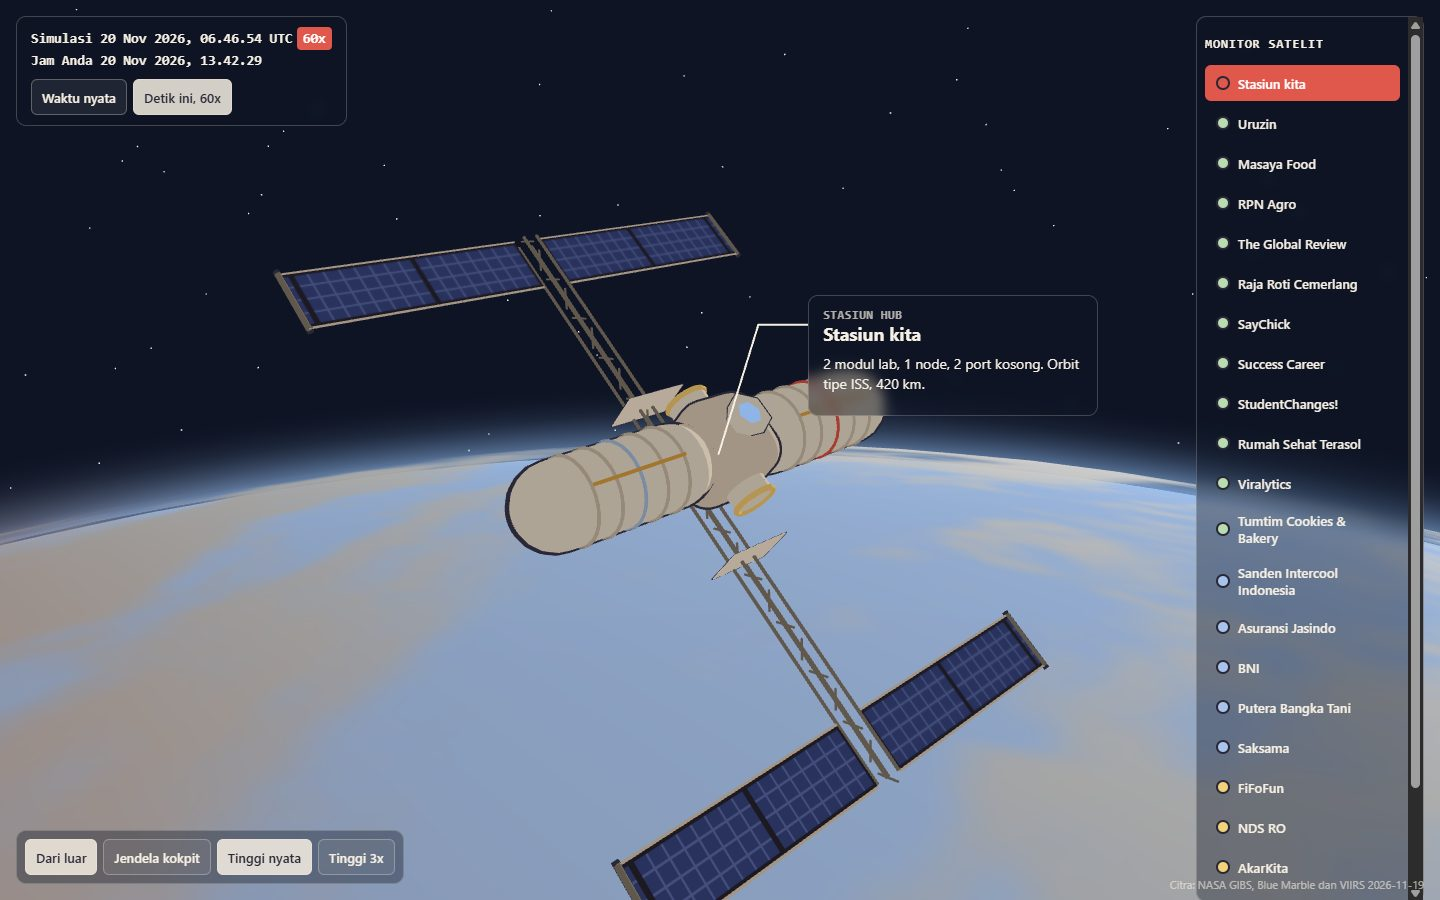
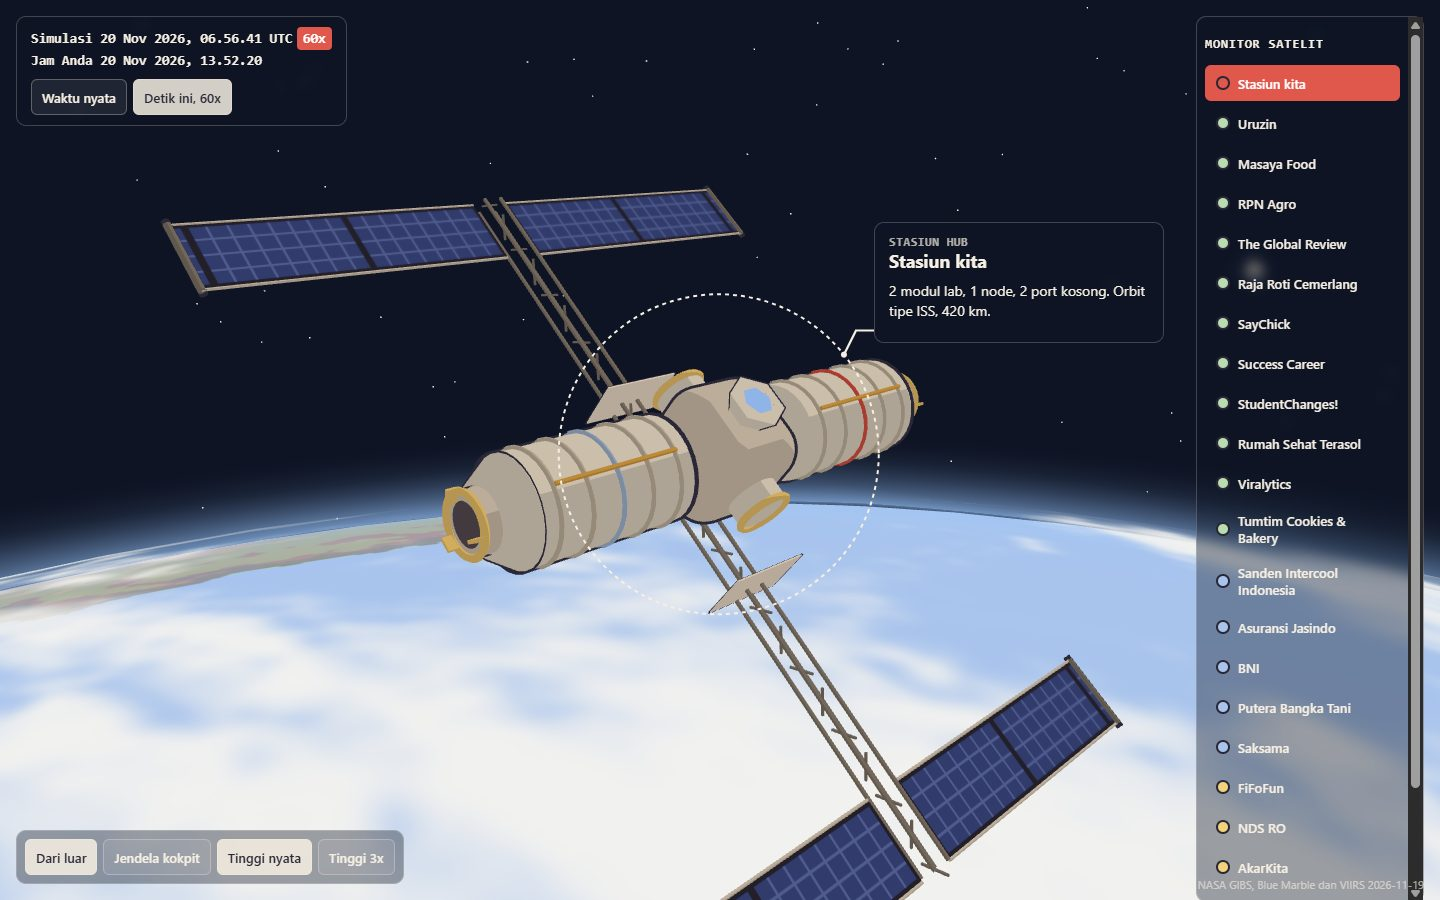
orbit: HUD menempel lewat cincin, port sandar modul, tanpa glitch titik
Titik penanda berukuran tetap disembunyikan saat kamera dekat karena
menembus badan satelit; pita dan antena digeser keluar kulit tinta.
HUD diberi cincin putus-putus seukuran benda dan garis dari tepi cincin,
panel di sisi yang lega. Modul stasiun kini silinder dengan ujung kerucut
dan port sandar. Daftar situs belajar juga tersedia sebagai HTML.

diff --git a/desain/cerita-v5/riset-situs-belajar-interaktif.html b/desain/cerita-v5/riset-situs-belajar-interaktif.html
@@ -1,0 +1,64 @@
+<!doctype html><html lang="id"><head><meta charset="utf-8"><meta name="viewport" content="width=device-width,initial-scale=1"><title>Situs belajar interaktif</title><style>
+:root{color-scheme:light dark;--bg:#f6efe3;--fg:#2a2836;--garis:#d9d2c6;--a:#b8322a}@media (prefers-color-scheme:dark){:root{--bg:#14182a;--fg:#f6efe3;--garis:#2f3550;--a:#f08a7e}}
+body{margin:0;background:var(--bg);color:var(--fg);font:15px/1.55 system-ui,sans-serif}main{max-width:1100px;margin:0 auto;padding:24px 16px 60px}
+h1{font-size:24px}h2{margin-top:32px;font-size:19px}table{width:100%;border-collapse:collapse;font-size:14px}th,td{border-bottom:1px solid var(--garis);padding:8px 6px;text-align:left;vertical-align:top}th{position:sticky;top:0;background:var(--bg)}a{color:var(--a);font-weight:600}
+@media(max-width:700px){table{display:block;overflow-x:auto}}</style></head><body><main><h1>Situs belajar interaktif sejenis designed-to-scale</h1>
+<p>20 Nov 2026. Permintaan Farrez: daftar situs seperti <a href="https://designed-to-scale.vercel.app/#/request-lifecycle/5" target="_blank" rel="noopener noreferrer">designed-to-scale</a></p>
+<p>untuk cloud (AWS dan lainnya) dan keamanan siber. Dipakai juga sebagai rujukan isi layar kokpit dan</p>
+<p>tablet prosedur, supaya pengunjung merasa sedang berada di dalam simulasi (game di dalam game).</p>
+<p><b>V</b> = dibuka hari ini, <b>I</b> = hanya dari cuplikan atau listing, <b>U</b> = gagal dibuka.</p>
+<p>Jenis: <b>visual</b> (penjelasan visual interaktif), <b>lab</b> (lab praktik), <b>kursus</b>.</p>
+<h2>Cloud</h2>
+<table><thead><tr><th>Situs</th><th>Isi</th><th>Jenis</th><th>Biaya</th><th>Mirip</th><th>Label</th></tr></thead><tbody>
+<tr><td><a href="https://kubernetes-explained.vercel.app/" target="_blank" rel="noopener noreferrer">Interactive Kubernetes, explained</a></td><td>pod, scheduler, Service, kube-proxy, jalur request lewat ingress; tombol play, pause, step</td><td>visual</td><td>tidak disebut</td><td>sangat</td><td>V</td></tr>
+<tr><td><a href="https://toolkit-1m9.pages.dev/how-it-works" target="_blank" rel="noopener noreferrer">Toolkit, Guides</a></td><td>38 panduan: VPC, jaringan Kubernetes, autoscaling, API gateway, NAT, BGP</td><td>visual</td><td>tidak disebut</td><td>sangat</td><td>V</td></tr>
+<tr><td><a href="https://krrish20.github.io/Cloud-DevOps-Explorer/" target="_blank" rel="noopener noreferrer">Cloud DevOps Explorer</a></td><td>30+ konsep dari cloud sampai Kubernetes, Terraform, CI/CD; diagram animasi dan kuis</td><td>visual</td><td>gratis</td><td>tinggi</td><td>V</td></tr>
+<tr><td><a href="https://learnkube.com/kubernetes-network-packets" target="_blank" rel="noopener noreferrer">LearnKube: jalur paket di Kubernetes</a></td><td>paket dari container sampai Service, diagram bertahap</td><td>visual</td><td>gratis</td><td>tinggi</td><td>V</td></tr>
+<tr><td><a href="https://cidr.xyz" target="_blank" rel="noopener noreferrer">CIDR.xyz</a></td><td>kalkulator subnet dengan peta bit</td><td>visual (alat)</td><td>gratis</td><td>sedang</td><td>V</td></tr>
+<tr><td><a href="https://messwithdns.net" target="_blank" rel="noopener noreferrer">Mess With DNS</a></td><td>subdomain sungguhan, log query langsung</td><td>lab</td><td>perlu login</td><td>sedang</td><td>V</td></tr>
+<tr><td><a href="https://labs.iximiuz.com" target="_blank" rel="noopener noreferrer">iximiuz Labs</a></td><td>playground Kubernetes, Docker, Linux, challenge</td><td>lab</td><td>akun gratis, premium</td><td>rendah</td><td>V</td></tr>
+<tr><td><a href="https://killercoda.com" target="_blank" rel="noopener noreferrer">Killercoda</a></td><td>skenario Kubernetes, Linux, Helm, persiapan CKA</td><td>lab</td><td>ada tier berbayar</td><td>rendah</td><td>V</td></tr>
+<tr><td><a href="https://sadservers.com" target="_blank" rel="noopener noreferrer">SadServers</a></td><td>troubleshooting server rusak</td><td>lab</td><td>bisa tanpa daftar</td><td>rendah</td><td>V</td></tr>
+<tr><td><a href="https://aws.amazon.com/training/digital/aws-cloud-quest/" target="_blank" rel="noopener noreferrer">AWS Cloud Quest dan Skill Builder</a></td><td>game peran dan lab console AWS</td><td>lab</td><td>akun gratis terbatas</td><td>rendah</td><td>V</td></tr>
+<tr><td><a href="https://www.skills.google/" target="_blank" rel="noopener noreferrer">Google Skills</a></td><td>lab di console Google Cloud (dulu Cloud Skills Boost)</td><td>lab</td><td>perlu akun</td><td>rendah</td><td>V</td></tr>
+<tr><td><a href="https://learn.microsoft.com/en-us/training/" target="_blank" rel="noopener noreferrer">Microsoft Learn</a></td><td>modul Azure</td><td>kursus</td><td>tidak disebut</td><td>rendah</td><td>V</td></tr>
+<tr><td><a href="https://cloudresumechallenge.dev" target="_blank" rel="noopener noreferrer">Cloud Resume Challenge</a></td><td>proyek 16 langkah di akun cloud sendiri</td><td>kursus</td><td>tidak tertulis</td><td>rendah</td><td>V</td></tr>
+<tr><td><a href="https://www.producthunt.com/products/cascode" target="_blank" rel="noopener noreferrer">Cascode</a></td><td>kanvas layanan AWS, injeksi kegagalan, tanpa akun AWS</td><td>visual (simulator)</td><td>tidak diketahui</td><td>tinggi</td><td>I</td></tr>
+<tr><td>Play with Kubernetes</td><td>dihentikan sejak 1 Maret 2026</td><td>lab</td><td></td><td></td><td>V</td></tr>
+</tbody></table>
+<h2>Keamanan siber</h2>
+<table><thead><tr><th>Situs</th><th>Isi</th><th>Jenis</th><th>Biaya</th><th>Mirip</th><th>Label</th></tr></thead><tbody>
+<tr><td><a href="https://kishoresweety.github.io/CyberSecurity/" target="_blank" rel="noopener noreferrer">Cyber Security Visual Learning Lab</a></td><td>simulasi animasi DNS, HTTPS, firewall sampai MITM, SQLi, XSS, DDoS</td><td>visual</td><td>tidak disebut</td><td>sangat (isi belum dinilai)</td><td>V</td></tr>
+<tr><td><a href="https://tls13.xargs.org" target="_blank" rel="noopener noreferrer">The Illustrated TLS 1.3 Connection</a></td><td>sesi TLS byte demi byte; juga versi QUIC, DTLS, TLS 1.2</td><td>visual</td><td>gratis</td><td>tinggi</td><td>V</td></tr>
+<tr><td><a href="https://www.hacksplaining.com" target="_blank" rel="noopener noreferrer">Hacksplaining</a></td><td>OWASP Top 10 dan prompt injection, pelajaran 15 sampai 30 menit</td><td>visual</td><td>gratis pribadi</td><td>tinggi</td><td>V</td></tr>
+<tr><td><a href="https://dnsimple.com/comics/how-https-works/" target="_blank" rel="noopener noreferrer">How HTTPS works (komik)</a></td><td>kunci, handshake, Certificate Authority</td><td>visual (komik)</td><td>gratis</td><td>sedang</td><td>V</td></tr>
+<tr><td><a href="https://gchq.github.io/CyberChef/" target="_blank" rel="noopener noreferrer">CyberChef</a></td><td>resep encode, decode, kripto di browser</td><td>alat</td><td>gratis</td><td>sedang</td><td>V</td></tr>
+<tr><td><a href="https://portswigger.net/web-security" target="_blank" rel="noopener noreferrer">PortSwigger Web Security Academy</a></td><td>lab web rentan (SQLi, XSS, SSRF, JWT, LLM)</td><td>lab</td><td>gratis</td><td>rendah sampai sedang</td><td>V</td></tr>
+<tr><td><a href="https://xss-game.appspot.com" target="_blank" rel="noopener noreferrer">XSS game</a></td><td>level game XSS</td><td>lab</td><td>tidak disebut</td><td>rendah sampai sedang</td><td>V</td></tr>
+<tr><td><a href="https://tryhackme.com" target="_blank" rel="noopener noreferrer">TryHackMe</a></td><td>1.400+ lab, mesin di browser</td><td>lab, kursus</td><td>akun gratis, premium</td><td>rendah sampai sedang</td><td>V</td></tr>
+<tr><td><a href="https://academy.hackthebox.com" target="_blank" rel="noopener noreferrer">Hack The Box Academy</a></td><td>modul bertingkat, Pwnbox</td><td>kursus, lab</td><td>akun, berbayar</td><td>rendah</td><td>V</td></tr>
+<tr><td><a href="https://cryptohack.org" target="_blank" rel="noopener noreferrer">CryptoHack</a></td><td>puzzle kriptografi modern</td><td>lab</td><td>gratis</td><td>rendah</td><td>V</td></tr>
+<tr><td><a href="https://overthewire.org/wargames/" target="_blank" rel="noopener noreferrer">OverTheWire</a></td><td>wargame lewat SSH, mulai dari Bandit</td><td>lab</td><td>tidak disebut</td><td>rendah</td><td>V</td></tr>
+<tr><td><a href="https://pwn.college" target="_blank" rel="noopener noreferrer">pwn.college</a></td><td>dojo dan challenge di browser</td><td>lab</td><td>gratis</td><td>rendah</td><td>V</td></tr>
+<tr><td><a href="https://picoctf.org" target="_blank" rel="noopener noreferrer">picoCTF, kini CyLab Security Academy</a></td><td>CTF CMU</td><td>lab</td><td>gratis</td><td>rendah</td><td>V</td></tr>
+<tr><td><a href="https://pwnedlabs.io" target="_blank" rel="noopener noreferrer">Pwned Labs</a></td><td>lab keamanan cloud AWS, Azure, GCP</td><td>lab</td><td>ada tier gratis</td><td>rendah</td><td>V</td></tr>
+<tr><td><a href="https://www.cloudsecuritychampionship.com" target="_blank" rel="noopener noreferrer">Wiz Cloud Security Championship</a></td><td>CTF keamanan cloud bulanan</td><td>lab</td><td>akun</td><td>rendah</td><td>V</td></tr>
+<tr><td><a href="https://github.com/RhinoSecurityLabs/cloudgoat" target="_blank" rel="noopener noreferrer">CloudGoat</a></td><td>skenario AWS rentan di akun sendiri (biaya AWS sendiri)</td><td>lab</td><td>gratis</td><td>rendah</td><td>V</td></tr>
+<tr><td><a href="https://owasp.org/www-project-juice-shop/" target="_blank" rel="noopener noreferrer">OWASP Juice Shop</a></td><td>aplikasi rentan dipasang sendiri</td><td>lab</td><td>gratis</td><td>rendah</td><td>V</td></tr>
+<tr><td><a href="https://cryptopals.com" target="_blank" rel="noopener noreferrer">Cryptopals</a></td><td>delapan set latihan koding kripto</td><td>lab</td><td>terbuka</td><td>rendah</td><td>V</td></tr>
+<tr><td>flAWS.cloud</td><td>gagal dibuka hari ini</td><td>lab</td><td></td><td></td><td>U</td></tr>
+</tbody></table>
+<h2>Desain sistem (pembanding)</h2>
+<table><thead><tr><th>Situs</th><th>Isi</th><th>Jenis</th><th>Mirip</th><th>Label</th></tr></thead><tbody>
+<tr><td><a href="https://getreqflow.com" target="_blank" rel="noopener noreferrer">Reqflow</a></td><td>31 sistem dengan request trace per langkah dan kuis</td><td>visual</td><td>sangat</td><td>V</td></tr>
+<tr><td><a href="https://200ms.thenodebook.com" target="_blank" rel="noopener noreferrer">200 Milliseconds</a></td><td>satu HTTP request dari DNS sampai Postgres dan kembali</td><td>visual</td><td>sangat</td><td>V</td></tr>
+<tr><td><a href="https://toolkit-1m9.pages.dev/" target="_blank" rel="noopener noreferrer">Toolkit, Guides dan Simulators</a></td><td>Kafka, caching, CAP, Raft, 34 simulator</td><td>visual</td><td>sangat</td><td>V</td></tr>
+<tr><td><a href="https://markusisaksson1982.github.io/layers/networking" target="_blank" rel="noopener noreferrer">Full Stack Observatory</a></td><td>TCP handshake dengan play, step, kecepatan</td><td>visual</td><td>sangat</td><td>V</td></tr>
+<tr><td><a href="https://encore.dev/blog/queueing" target="_blank" rel="noopener noreferrer">Encore Queueing</a>, <a href="https://samwho.dev" target="_blank" rel="noopener noreferrer">samwho.dev</a></td><td>esai visual interaktif (antrean, load balancing, hashing)</td><td>visual</td><td>sangat, tinggi</td><td>V</td></tr>
+<tr><td><a href="https://breakscale.tech" target="_blank" rel="noopener noreferrer">Breakscale</a></td><td>sandbox: susun LB, cache, DB, naikkan traffic sampai gagal</td><td>visual (simulator)</td><td>tinggi</td><td>V</td></tr>
+<tr><td><a href="https://raft.github.io" target="_blank" rel="noopener noreferrer">Raft</a>, <a href="https://thesecretlivesofdata.com/raft/" target="_blank" rel="noopener noreferrer">The Secret Lives of Data</a></td><td>konsensus Raft di browser</td><td>visual</td><td>tinggi</td><td>V</td></tr>
+<tr><td><a href="https://visualgo.net/en" target="_blank" rel="noopener noreferrer">VisuAlgo</a></td><td>animasi struktur data, ada bahasa Indonesia</td><td>visual</td><td>tinggi</td><td>V</td></tr>
+<tr><td><a href="https://learngitbranching.js.org" target="_blank" rel="noopener noreferrer">Learn Git Branching</a></td><td>graf Git visual</td><td>visual</td><td>sedang</td><td>V</td></tr>
+</tbody></table>
+<p>Yang tidak ditemukan: penjelasan visual interaktif khusus IAM, serverless, atau Terraform yang</p>
+<p>setara designed-to-scale.</p></main></body></html>

diff --git a/desain/cerita-v5/previs/orbit.html b/desain/cerita-v5/previs/orbit.html
@@ -75,7 +75,7 @@
 </div>
 <div class="kamera" id="kamera" aria-hidden="true"><span class="sudut a"></span><span class="sudut b"></span><span class="sudut c"></span><span class="sudut d"></span>
   <div class="rec"><i></i>REC</div><div class="kiri" id="kamNama"></div><div class="kanan" id="kamData"></div><div class="silang"></div></div>
-<svg class="garis" aria-hidden="true"><polyline id="garis" fill="none" stroke="#f6efe3" stroke-width="2" points=""/></svg>
+<svg class="garis" aria-hidden="true"><circle id="cincin" fill="none" stroke="#f6efe3" stroke-width="2" stroke-dasharray="4 4" r="0" cx="-99" cy="-99"/><polyline id="garis" fill="none" stroke="#f6efe3" stroke-width="2" points=""/><circle id="ujung" fill="#f6efe3" r="0" cx="-99" cy="-99"/></svg>
 <aside class="panel hud" id="hud" hidden></aside>
 <small class="kredit" id="kredit"></small>
 <!-- jendela Cupola ISS: satu jendela bulat di tengah dan enam trapesium sama besar yang melingkarinya -->
@@ -243,8 +243,8 @@ const sayapRosa = (panjang, lebar) => { const g = new THREE.Group();
 const bendaSatelit = (warna) => { const g = new THREE.Group();
   // badan lempeng: memanjang searah gerak (+z), tipis ke arah bumi
   const badan = berkulit(new THREE.Mesh(new RoundedBoxGeometry(0.2, 0.035, 0.34, 2, 0.012), toon(0xd9d2c6)), 1.05); g.add(badan);
-  const pita = new THREE.Mesh(new THREE.BoxGeometry(0.18, 0.004, 0.06), toon(warna)); pita.position.set(0, 0.019, 0.1); g.add(pita);
-  const antena = new THREE.Mesh(new THREE.PlaneGeometry(0.18, 0.32), bahanAntena); antena.rotation.x = Math.PI / 2; antena.position.y = -0.0185; g.add(antena);
+  const pita = new THREE.Mesh(new THREE.BoxGeometry(0.18, 0.004, 0.06), toon(warna)); pita.position.set(0, 0.0215, 0.1); g.add(pita);
+  const antena = new THREE.Mesh(new THREE.PlaneGeometry(0.18, 0.32), bahanAntena); antena.rotation.x = Math.PI / 2; antena.position.y = -0.0198; g.add(antena);
   // dua sayap ROSA ke kiri dan kanan, sedikit miring menghadap matahari
   for (const s of [-1, 1]) { const w = sayapRosa(0.62, 0.14); w.position.x = s * 0.1; w.rotation.y = s > 0 ? 0 : Math.PI; w.rotation.x = 0.35; g.add(w); }
   // pendorong ion di belakang dan sepasang star tracker di atas
@@ -258,7 +258,13 @@ const bangunStasiun = () => { const luar = new THREE.Group(), g = new THREE.Grou
   // luar.lookAt mengarahkan +z ke arah gerak; modul memanjang di x lokal g, jadi g diputar
   g.rotation.y = Math.PI / 2;
   const krem = 0xeae6dc, abu = 0x847e75, rusuk = 0xc9c2b4;
-  const modul = (x, panjang, cincin) => { const m = berkulit(new THREE.Mesh(new THREE.CapsuleGeometry(0.19, panjang, 6, 24), toon(krem)), 1.04); m.rotation.z = Math.PI / 2; m.position.x = x; g.add(m);
+  const modul = (x, panjang, cincin) => { const arah = Math.sign(x), m = berkulit(new THREE.Mesh(new THREE.CylinderGeometry(0.19, 0.19, panjang, 28), toon(krem)), 1.04); m.rotation.z = Math.PI / 2; m.position.x = x; g.add(m);
+    const kerucut = berkulit(new THREE.Mesh(new THREE.CylinderGeometry(0.13, 0.19, 0.09, 28), toon(krem)), 1.04); kerucut.rotation.z = -arah * Math.PI / 2; kerucut.position.x = x + arah * (panjang / 2 + 0.045); g.add(kerucut);
+    const ujungX = x + arah * (panjang / 2 + 0.09);
+    const port = berkulit(new THREE.Mesh(new THREE.CylinderGeometry(0.105, 0.105, 0.06, 24), toon(0xd9d2c6)), 1.05); port.rotation.z = Math.PI / 2; port.position.x = ujungX + arah * 0.03; g.add(port);
+    const bibir = new THREE.Mesh(new THREE.TorusGeometry(0.105, 0.014, 6, 28), toon(0xf2d27a)); bibir.rotation.y = Math.PI / 2; bibir.position.x = ujungX + arah * 0.062; g.add(bibir);
+    const pintu = new THREE.Mesh(new THREE.CircleGeometry(0.075, 24), toon(0x5b5560)); pintu.rotation.y = arah * Math.PI / 2; pintu.position.x = ujungX + arah * 0.0605; g.add(pintu);
+    for (let k = 0; k < 3; k++) { const sirip = new THREE.Mesh(new THREE.BoxGeometry(0.035, 0.012, 0.05), toon(0xf2d27a)), sd = (k * Math.PI * 2) / 3; sirip.position.set(ujungX + arah * 0.085, Math.cos(sd) * 0.095, Math.sin(sd) * 0.095); sirip.rotation.x = -sd; g.add(sirip); }
     for (let i = -2; i <= 2; i++) { const r = new THREE.Mesh(new THREE.TorusGeometry(0.193, 0.009, 6, 28), toon(i === 0 ? cincin : rusuk)); r.rotation.y = Math.PI / 2; r.position.x = x + (i * panjang) / 5; g.add(r); }
     for (const s of [-1, 1]) { const pegangan = new THREE.Mesh(new THREE.BoxGeometry(panjang * 0.8, 0.012, 0.012), toon(0xd9a84a)); pegangan.position.set(x, s * 0.2, 0.05); g.add(pegangan); } };
   modul(-0.62, 0.62, 0xe0574b); modul(0.62, 0.62, 0xa9c4ec);
@@ -339,11 +345,29 @@ tNyata.onclick = () => setTinggi(1); tBesar.onclick = () => setTinggi(3);
 
 const fmt = (ms, zona) => new Date(ms).toLocaleString("id-ID", { timeZone: zona, hour: "2-digit", minute: "2-digit", second: "2-digit", day: "numeric", month: "short", year: "numeric" });
 let terakhirPos = null;
+const cincin = document.getElementById("cincin"), ujung = document.getElementById("ujung");
+function tempelHud(pf) {
+  const v = pf.clone().project(cam), x = ((v.x + 1) / 2) * innerWidth, y = ((1 - v.y) / 2) * innerHeight;
+  const tampak = v.z < 1 && x > -40 && x < innerWidth + 40 && y > -40 && y < innerHeight + 40;
+  if (!tampak) { garis.setAttribute("points", ""); cincin.setAttribute("r", 0); ujung.setAttribute("r", 0); return; }
+  // jari-jari benda di layar dari ukuran nyatanya
+  const jari = fokus === stasiun ? 1.7 : 0.7, d = cam.position.distanceTo(pf), rPx = Math.min(160, Math.max(14, (jari / d) * (innerHeight / 2) / Math.tan((cam.fov * Math.PI) / 360)));
+  const lebar = hud.offsetWidth || 260, tinggi = hud.offsetHeight || 140, daftarL = (document.querySelector(".daftar")?.offsetWidth ?? 0) + 32, batasKanan = innerWidth - daftarL - lebar - 16;
+  // sisi yang muat dulu; bila kiri dan kanan sama-sama sempit, panel naik ke atas benda supaya tidak menutupinya
+  const muatKanan = x + rPx + 48 <= batasKanan, muatKiri = x - rPx - 48 - lebar >= 16, keKanan = muatKanan || (!muatKiri && x < innerWidth / 2);
+  const hx = Math.min(batasKanan, Math.max(16, keKanan ? x + rPx + 48 : x - rPx - 48 - lebar));
+  const hy = muatKanan || muatKiri ? Math.min(innerHeight - tinggi - 90, Math.max(16, y - rPx - tinggi * 0.6)) : Math.max(16, y - rPx - tinggi - 24);
+  hud.style.left = hx + "px"; hud.style.top = hy + "px";
+  const ax = keKanan ? hx : hx + lebar, ay = Math.min(hy + tinggi - 12, Math.max(hy + 12, y)), sud = Math.atan2(ay - y, ax - x), sx = x + Math.cos(sud) * rPx, sy = y + Math.sin(sud) * rPx;
+  cincin.setAttribute("cx", x); cincin.setAttribute("cy", y); cincin.setAttribute("r", rPx);
+  ujung.setAttribute("cx", sx); ujung.setAttribute("cy", sy); ujung.setAttribute("r", 3);
+  garis.setAttribute("points", `${sx},${sy} ${ax - (keKanan ? 18 : -18)},${ay} ${ax},${ay}`);
+}
 function langkah() {
   const ms = waktu(), m = keadaanMatahari(ms), s = new THREE.Vector3(...arahMatahari(ms));
   bumi.rotation.y = (m.gmst * Math.PI) / 180; atmosfer.rotation.y = bumi.rotation.y; awan.rotation.y = bumi.rotation.y + (awanNyata ? 0 : ms / 86400000 * 0.3);
   bahanBumi.uniforms.matahari.value.copy(s); sinarMatahari.position.copy(s).multiplyScalar(1000); piringan.position.copy(s).multiplyScalar(2200); piringan.lookAt(0, 0, 0);
-  for (const b of benda) { const p = b.orbit.posisi(ms), q = b.orbit.posisi(ms + 1000); const kp = (v) => { const r = Math.hypot(...v), kk = (BUMI.R + (r - BUMI.R) * KALI_TINGGI) / r * SKALA; return v.map((x) => x * kk); }; b.obj.position.set(...kp(p)); b.obj.lookAt(...kp(q)); b.gelap = diBayangan(p, [s.x, s.y, s.z]); }
+  for (const b of benda) { const p = b.orbit.posisi(ms), q = b.orbit.posisi(ms + 1000); const kp = (v) => { const r = Math.hypot(...v), kk = (BUMI.R + (r - BUMI.R) * KALI_TINGGI) / r * SKALA; return v.map((x) => x * kk); }; b.obj.position.set(...kp(p)); b.obj.lookAt(...kp(q)); b.gelap = diBayangan(p, [s.x, s.y, s.z]); b.titik.visible = cam.position.distanceTo(b.obj.position) > (b === stasiun ? 14 : 7); }
   const pf = posDunia(fokus);
   if (pandang === "luar") {
     const atas = pf.clone().normalize(), q2 = fokus.obj.getWorldDirection(new THREE.Vector3()), maju = q2.sub(atas.clone().multiplyScalar(q2.dot(atas))).normalize(), kanan = new THREE.Vector3().crossVectors(maju, atas);
@@ -367,9 +391,9 @@ function langkah() {
     document.getElementById("dinding").setAttribute("fill", stasiun.gelap ? "#2a2534" : "#6f6476");
   }
   terakhirPos = pf.clone();
-  // HUD: garis dari benda ke panel
-  if (!hud.hidden && pandang === "luar") { const v = pf.clone().project(cam), x = ((v.x + 1) / 2) * innerWidth, y = ((1 - v.y) / 2) * innerHeight, hx = Math.min(innerWidth - 520, x + 90), hy = Math.max(16, y - 160);
-    hud.style.left = hx + "px"; hud.style.top = hy + "px"; garis.setAttribute("points", v.z < 1 ? `${x},${y} ${x + 40},${hy + 30} ${hx},${hy + 30}` : ""); }
+  // HUD: cincin putus-putus di sekeliling benda, garis dari tepi cincin ke sudut panel; panel di sisi yang lega
+  if (!hud.hidden && pandang === "luar") tempelHud(pf);
+  else { cincin.setAttribute("r", 0); ujung.setAttribute("r", 0); }
   jamSim.innerHTML = (mode === "cepat" ? "Simulasi " : "Sekarang ") + fmt(ms, "UTC") + " UTC" + (mode === "cepat" ? "<b>60x</b>" : "");
   jamNyata.textContent = "Jam Anda " + fmt(Date.now(), undefined);
   cekPetak();
